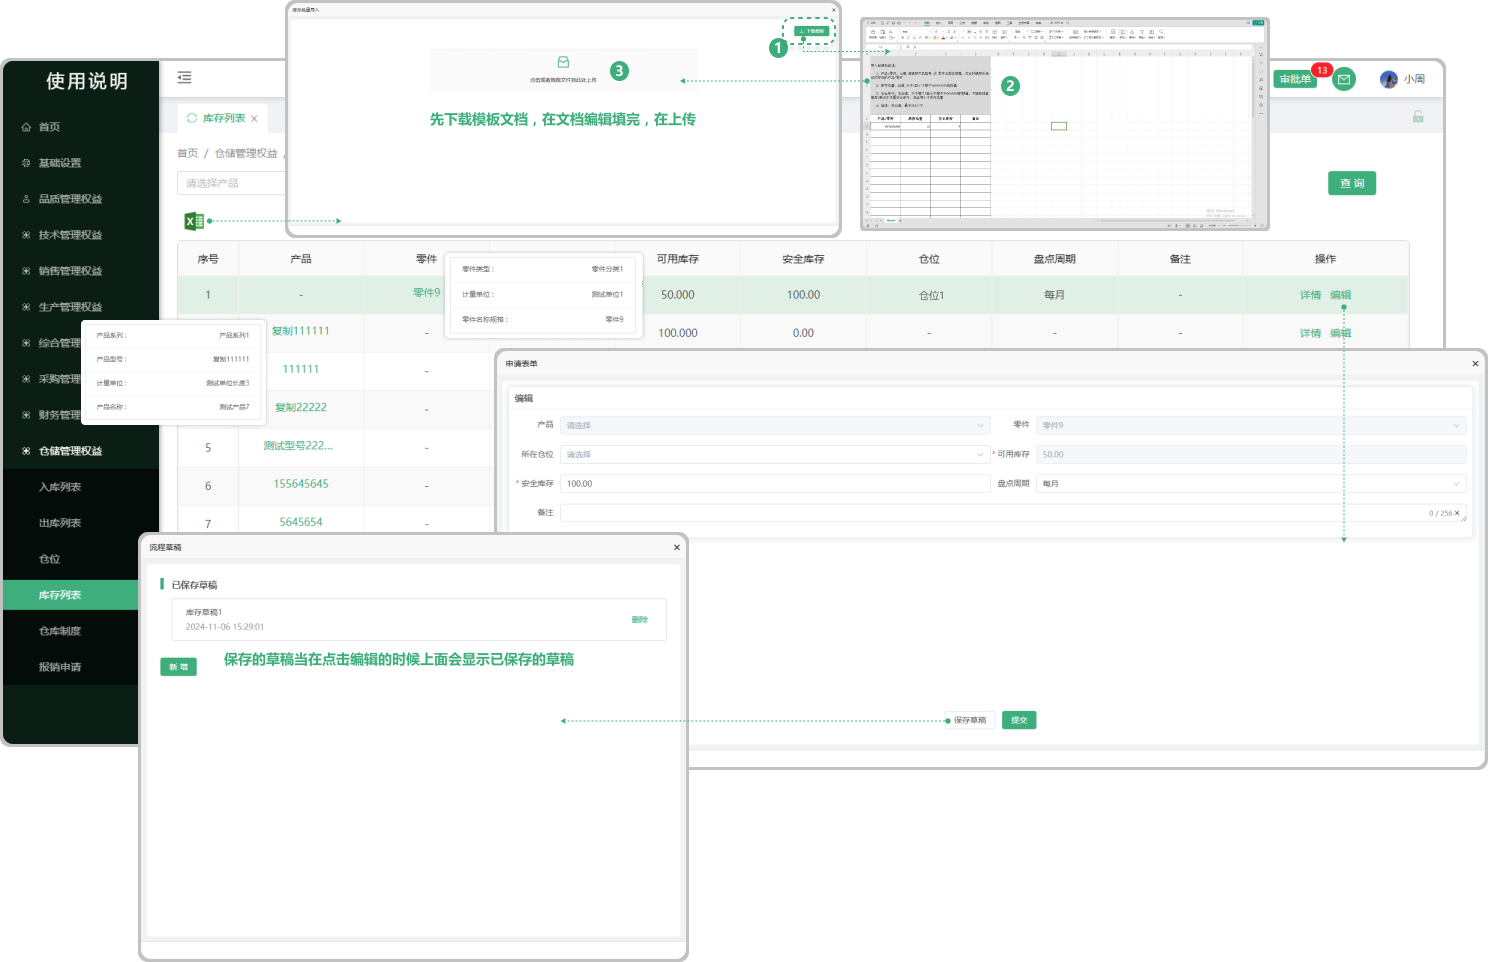
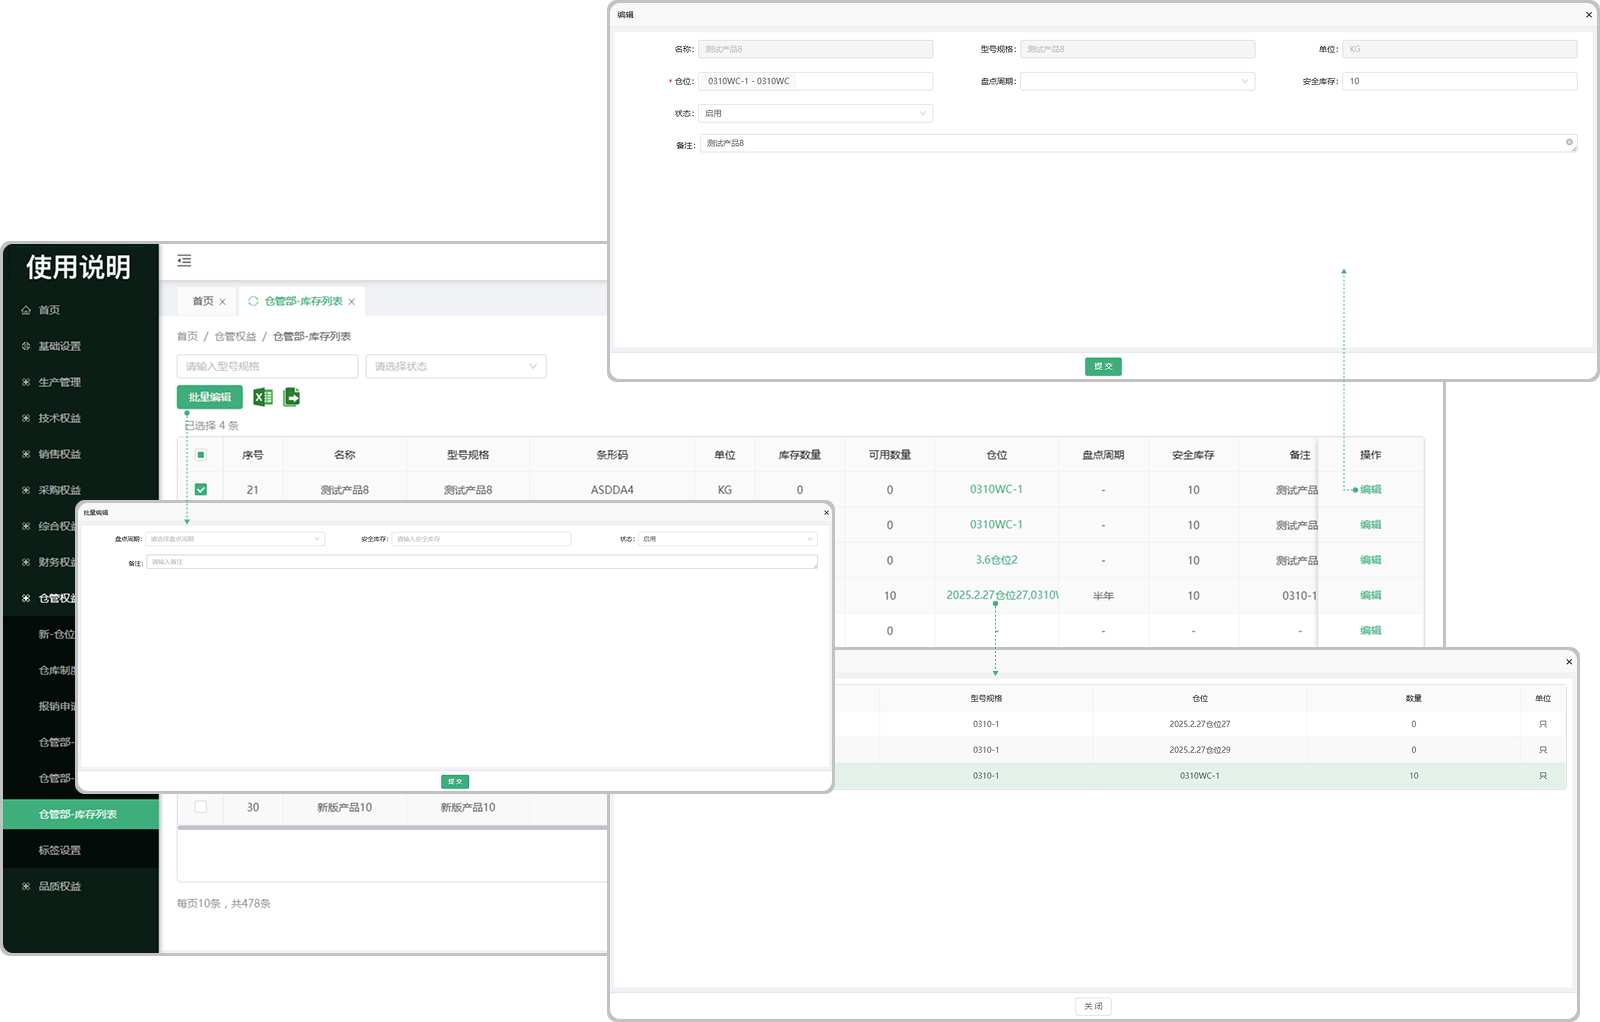
3.14修改入场检验、成品检验

diff --git a/docs/仓储管理/出库列表.md b/docs/仓储管理/出库列表.md
@@ -1,12 +1,48 @@
 
-# 出库列表
+# 出库任务
 
 > "出库列表“ 位于仓储管理板块，是从调度任务带过来的数据，在调度任务中去安排产品 / 零件以后会带入到出库列表中，进行分发、出库
 
-#### 1. 如图所示：
-* 分发：点击分发选择分发的人员（可指定多个人），分发完成界面的 出库人员下面，会显示对应分发的人员
-* 出库：点击出库在弹窗里面，选择出库放置的位置和本次需要出库的数量（完成以后界面的出库详情可以查看详细信息）
-* 产品/零件：点击产品/零件下方的产品或者零件可以查看详细信息
-* 出库人员：悬浮在出库人员相对应下方的人员名称上可查员工的基本信息
+#### 1.分发
+* 点击分发选择分发的人员（可指定多个人），分发完成界面的 出库人员下面，会显示对应分发的人员
+
+#### 2.出库详情
+
+* 支持下载、打印功能
+* 点击出库详情页面所对应的查看详情可安排出库（先设置分发人员），没有库存的零件/产品无法出库
+* 点击出库按钮，选择出库状态、仓位、出库数量、输入批次号
+
+  -可编辑出库信息（可增加出库仓位选择出库）
+
+#### 3.出库类别
+
+* 生产领料：在调度时走生产路线所带入的产品/零件
+
+* 成品出库：在调度时走使用库存的产品/零件
+
+
+#### 4.分发
+
+* 点击分发在选择框中选择所分发的仓库员（支持选择多个仓管员）
+
+
 
 ![如图所示](../file/cc-cklb.png)
+
+
+
+# 出库明细
+
+#### 1.出库明细
+
+* 在出库任务页面进行出库的产品/零件会产生记录带到出库明细页面
+
+
+
+#### 2.领取情况
+
+* 点击领取情况可查看领取人、领取量、领取时间
+
+  -在生产员工页面开始生产时所领取的物料会显示在领料情况里面
+
+![如图所示](../file/cc-cklb-ckmx.png)

diff --git a/docs/仓储管理/库存列表.md b/docs/仓储管理/库存列表.md
@@ -2,9 +2,38 @@
 
 > "入库列表“位于仓储管理板块，是从仓储管理的 ”入库列表“ 中入库以后流转到库存列表中的信息
 
-#### 1. 如图所示：
-* 编辑：点击编辑可以选择，盘点周期、所在仓位（提交完成在页面显示）
-* 草稿：保存草稿以后在点击编辑的时候会显示之前所保留的草稿
-* 产品 / 零件：点击相对应的产品 / 零件可产看基本信息
+#### 1. 批量编辑
+
+* 勾选需要编辑的产品可批量编辑
+
+
+#### 2.编辑
+
+* 可编辑这个产品的仓位信息
+
+* 可选择多个仓位
+
+#### 3.仓位
+
+* 可查看所编辑的仓位
+
+
+#### 4.批量导出
+
+* 点击批量导出按钮可将库存列表里面的产品/零件导出成文件
+
+
+
+
+#### 5.批量导入
+
+* 点击批量导入按钮将需要导入的产品/零件上传进去
+
+  -先导出在导入，可在导出的模板中进行编辑在导入
+
+
+
 
 ![如图所示](../file/cc-kclb.png)
+
+

diff --git a/docs/生产管理/生产任务单-员工.md b/docs/生产管理/生产任务单-员工.md
@@ -26,6 +26,8 @@
 
 * 选择设备、开始时间
 * 支持添加物料
+ 
+  -所领料的明细会带到出库列表-出库明细页面的领料情况中显示
 
 ![如图所示](../file/scrwd1.png)
  
